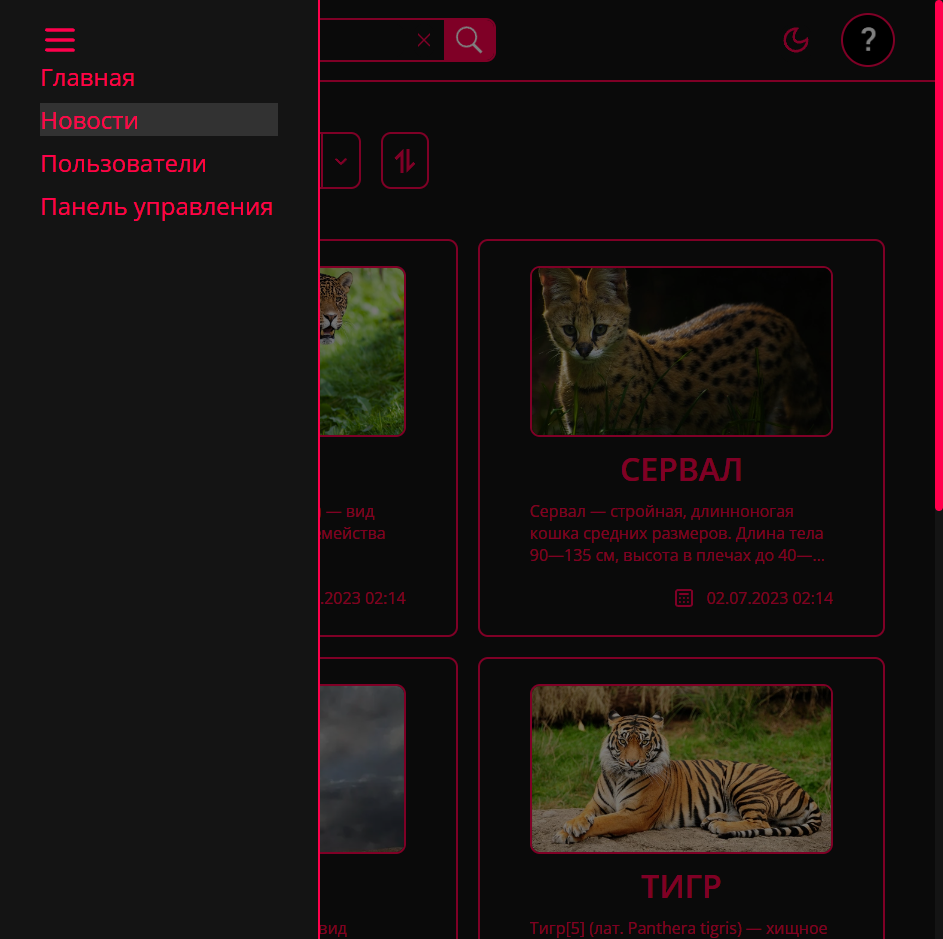
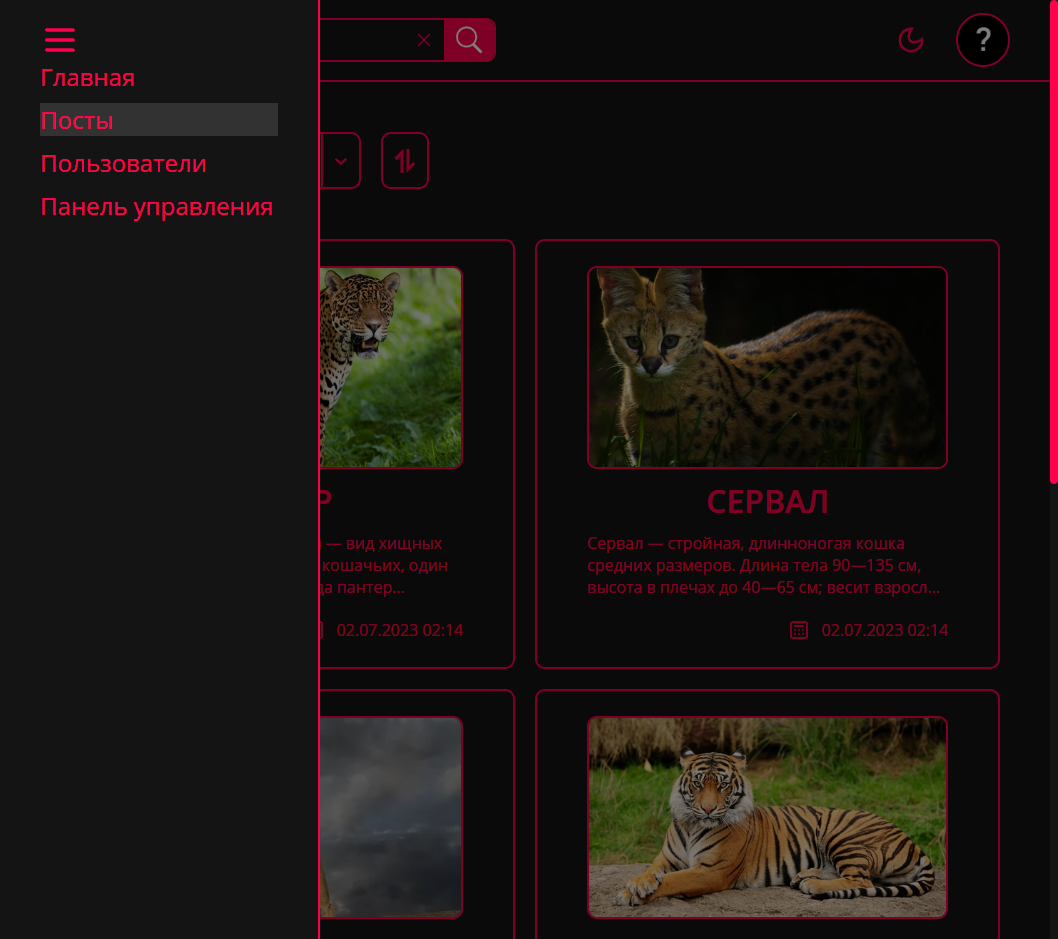
screen fix

diff --git a/src/layout/Layout/Header/NavBar/SideMenu.tsx b/src/layout/Layout/Header/NavBar/SideMenu.tsx
@@ -44,7 +44,7 @@ export const SideMenu = observer(
                   Главная
                </NavLink>
                <NavLink to={"/posts"} className={isActivePage}>
-                  Новости
+                  Посты
                </NavLink>
                <NavLink to={"/users"} className={isActivePage}>
                   Пользователи
